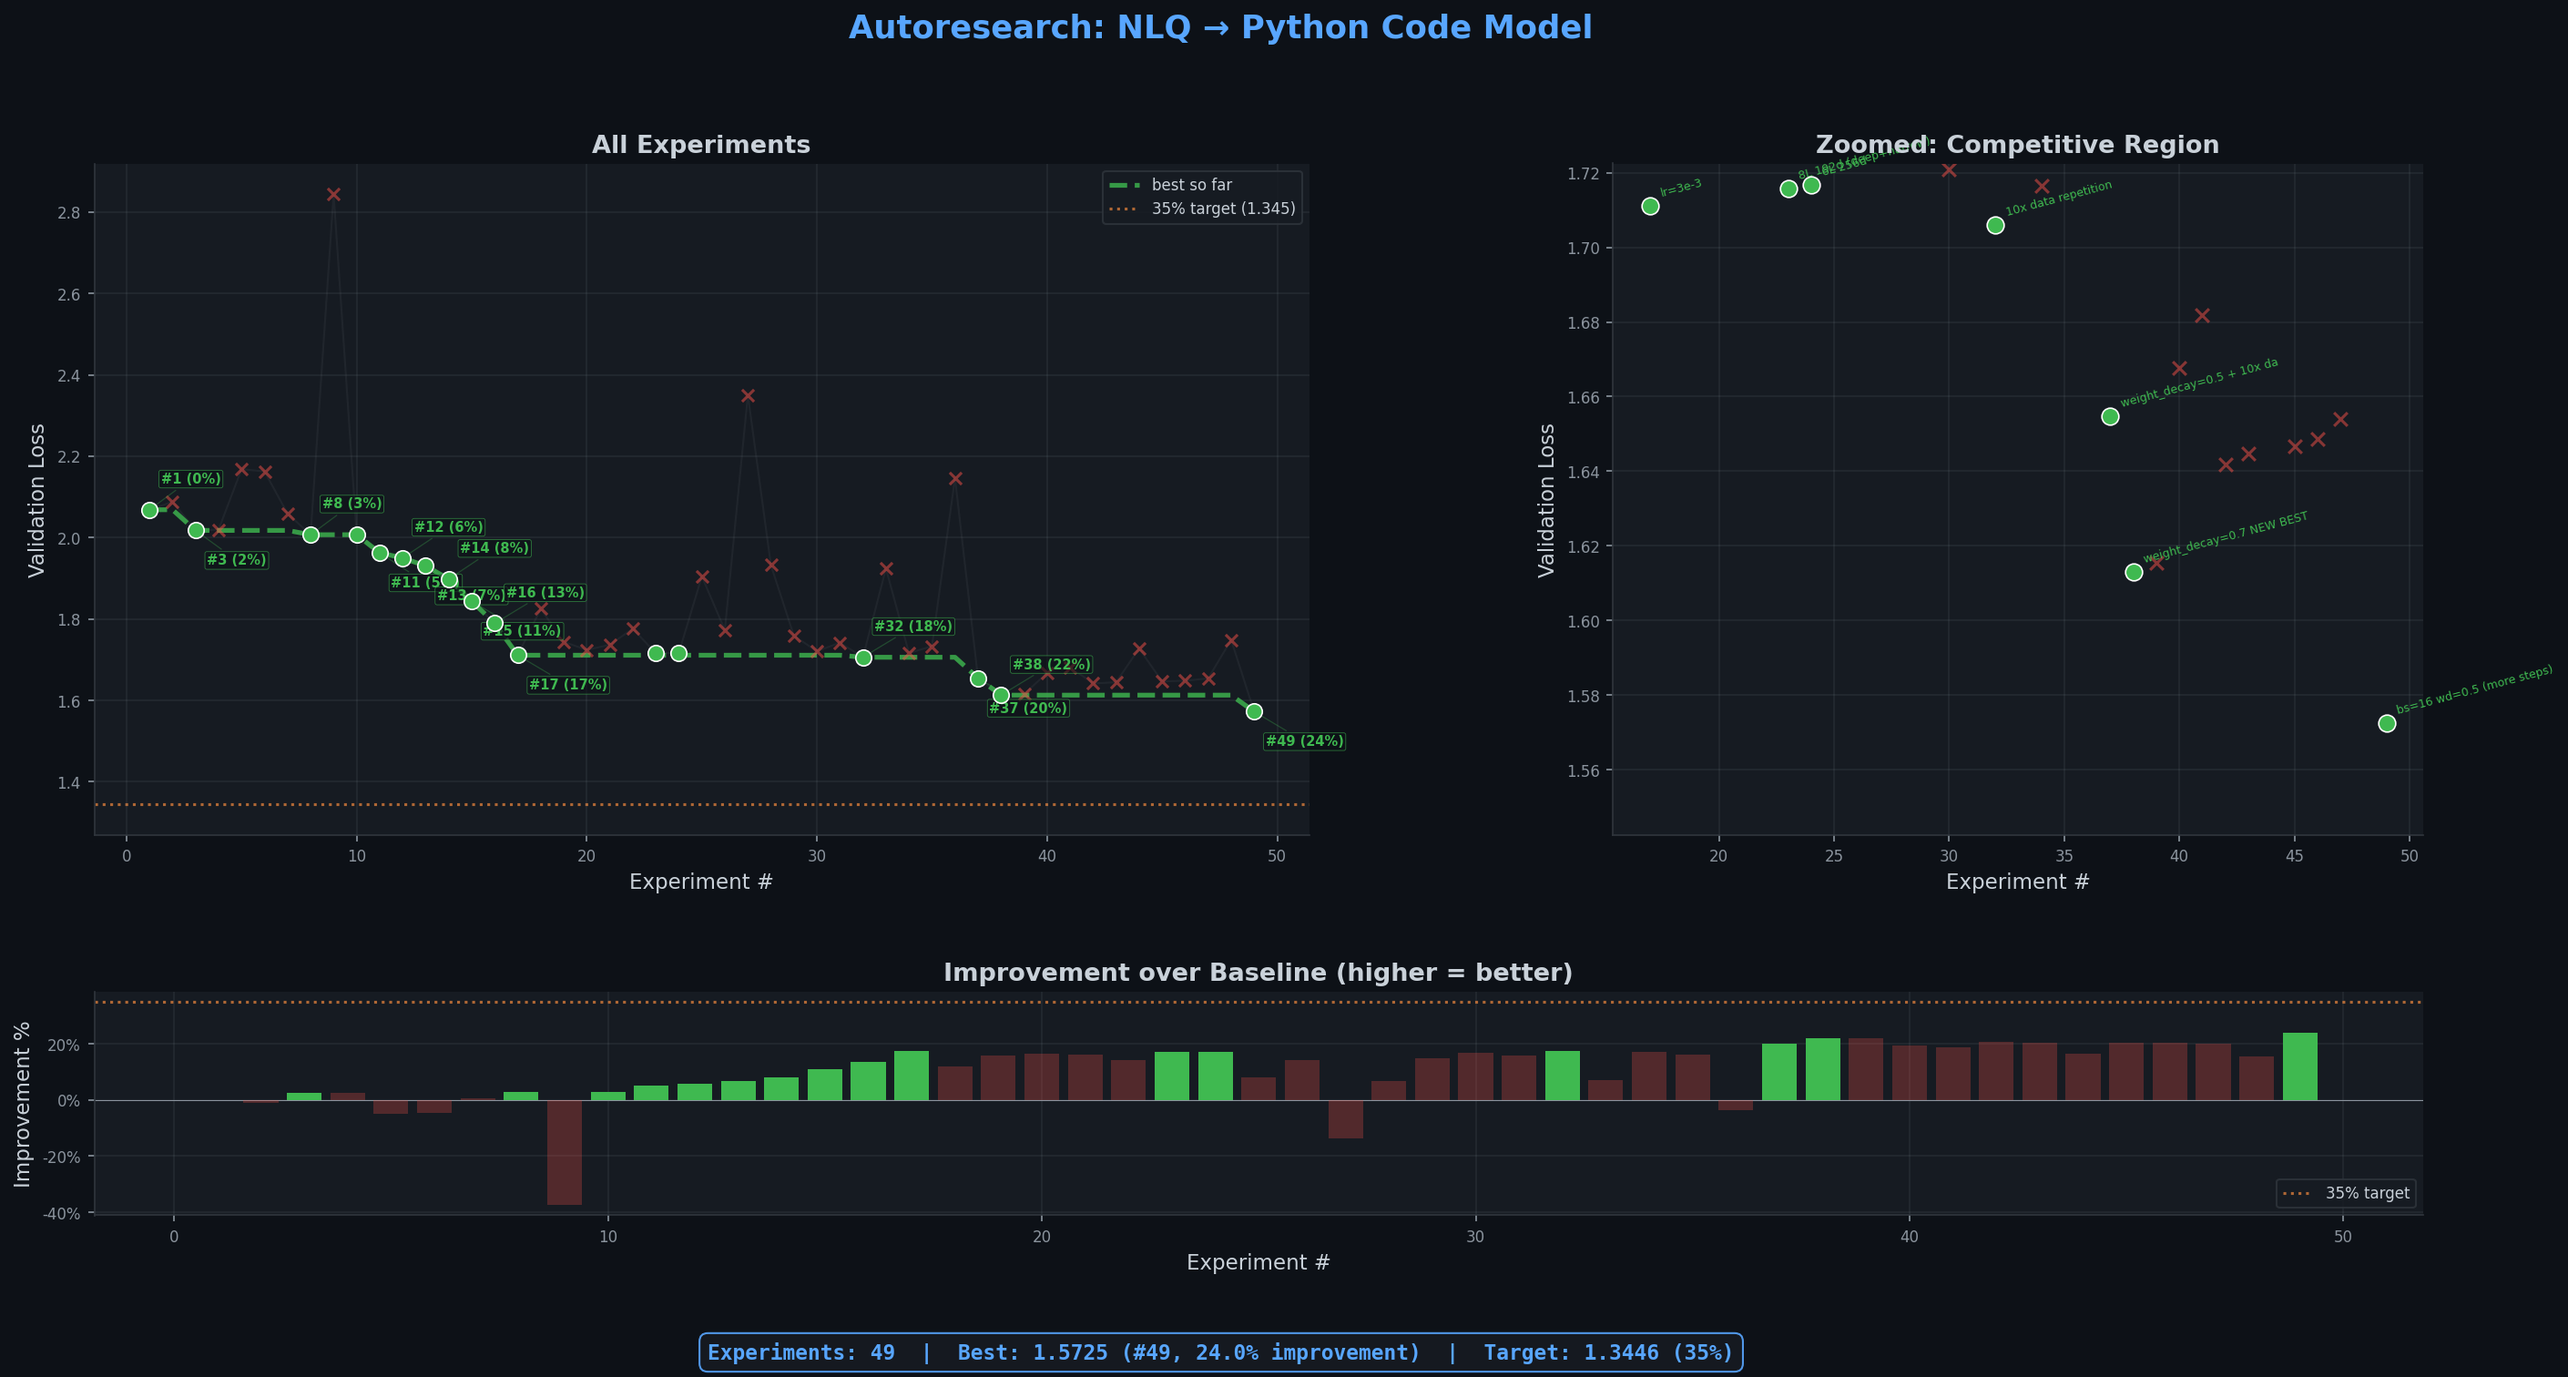
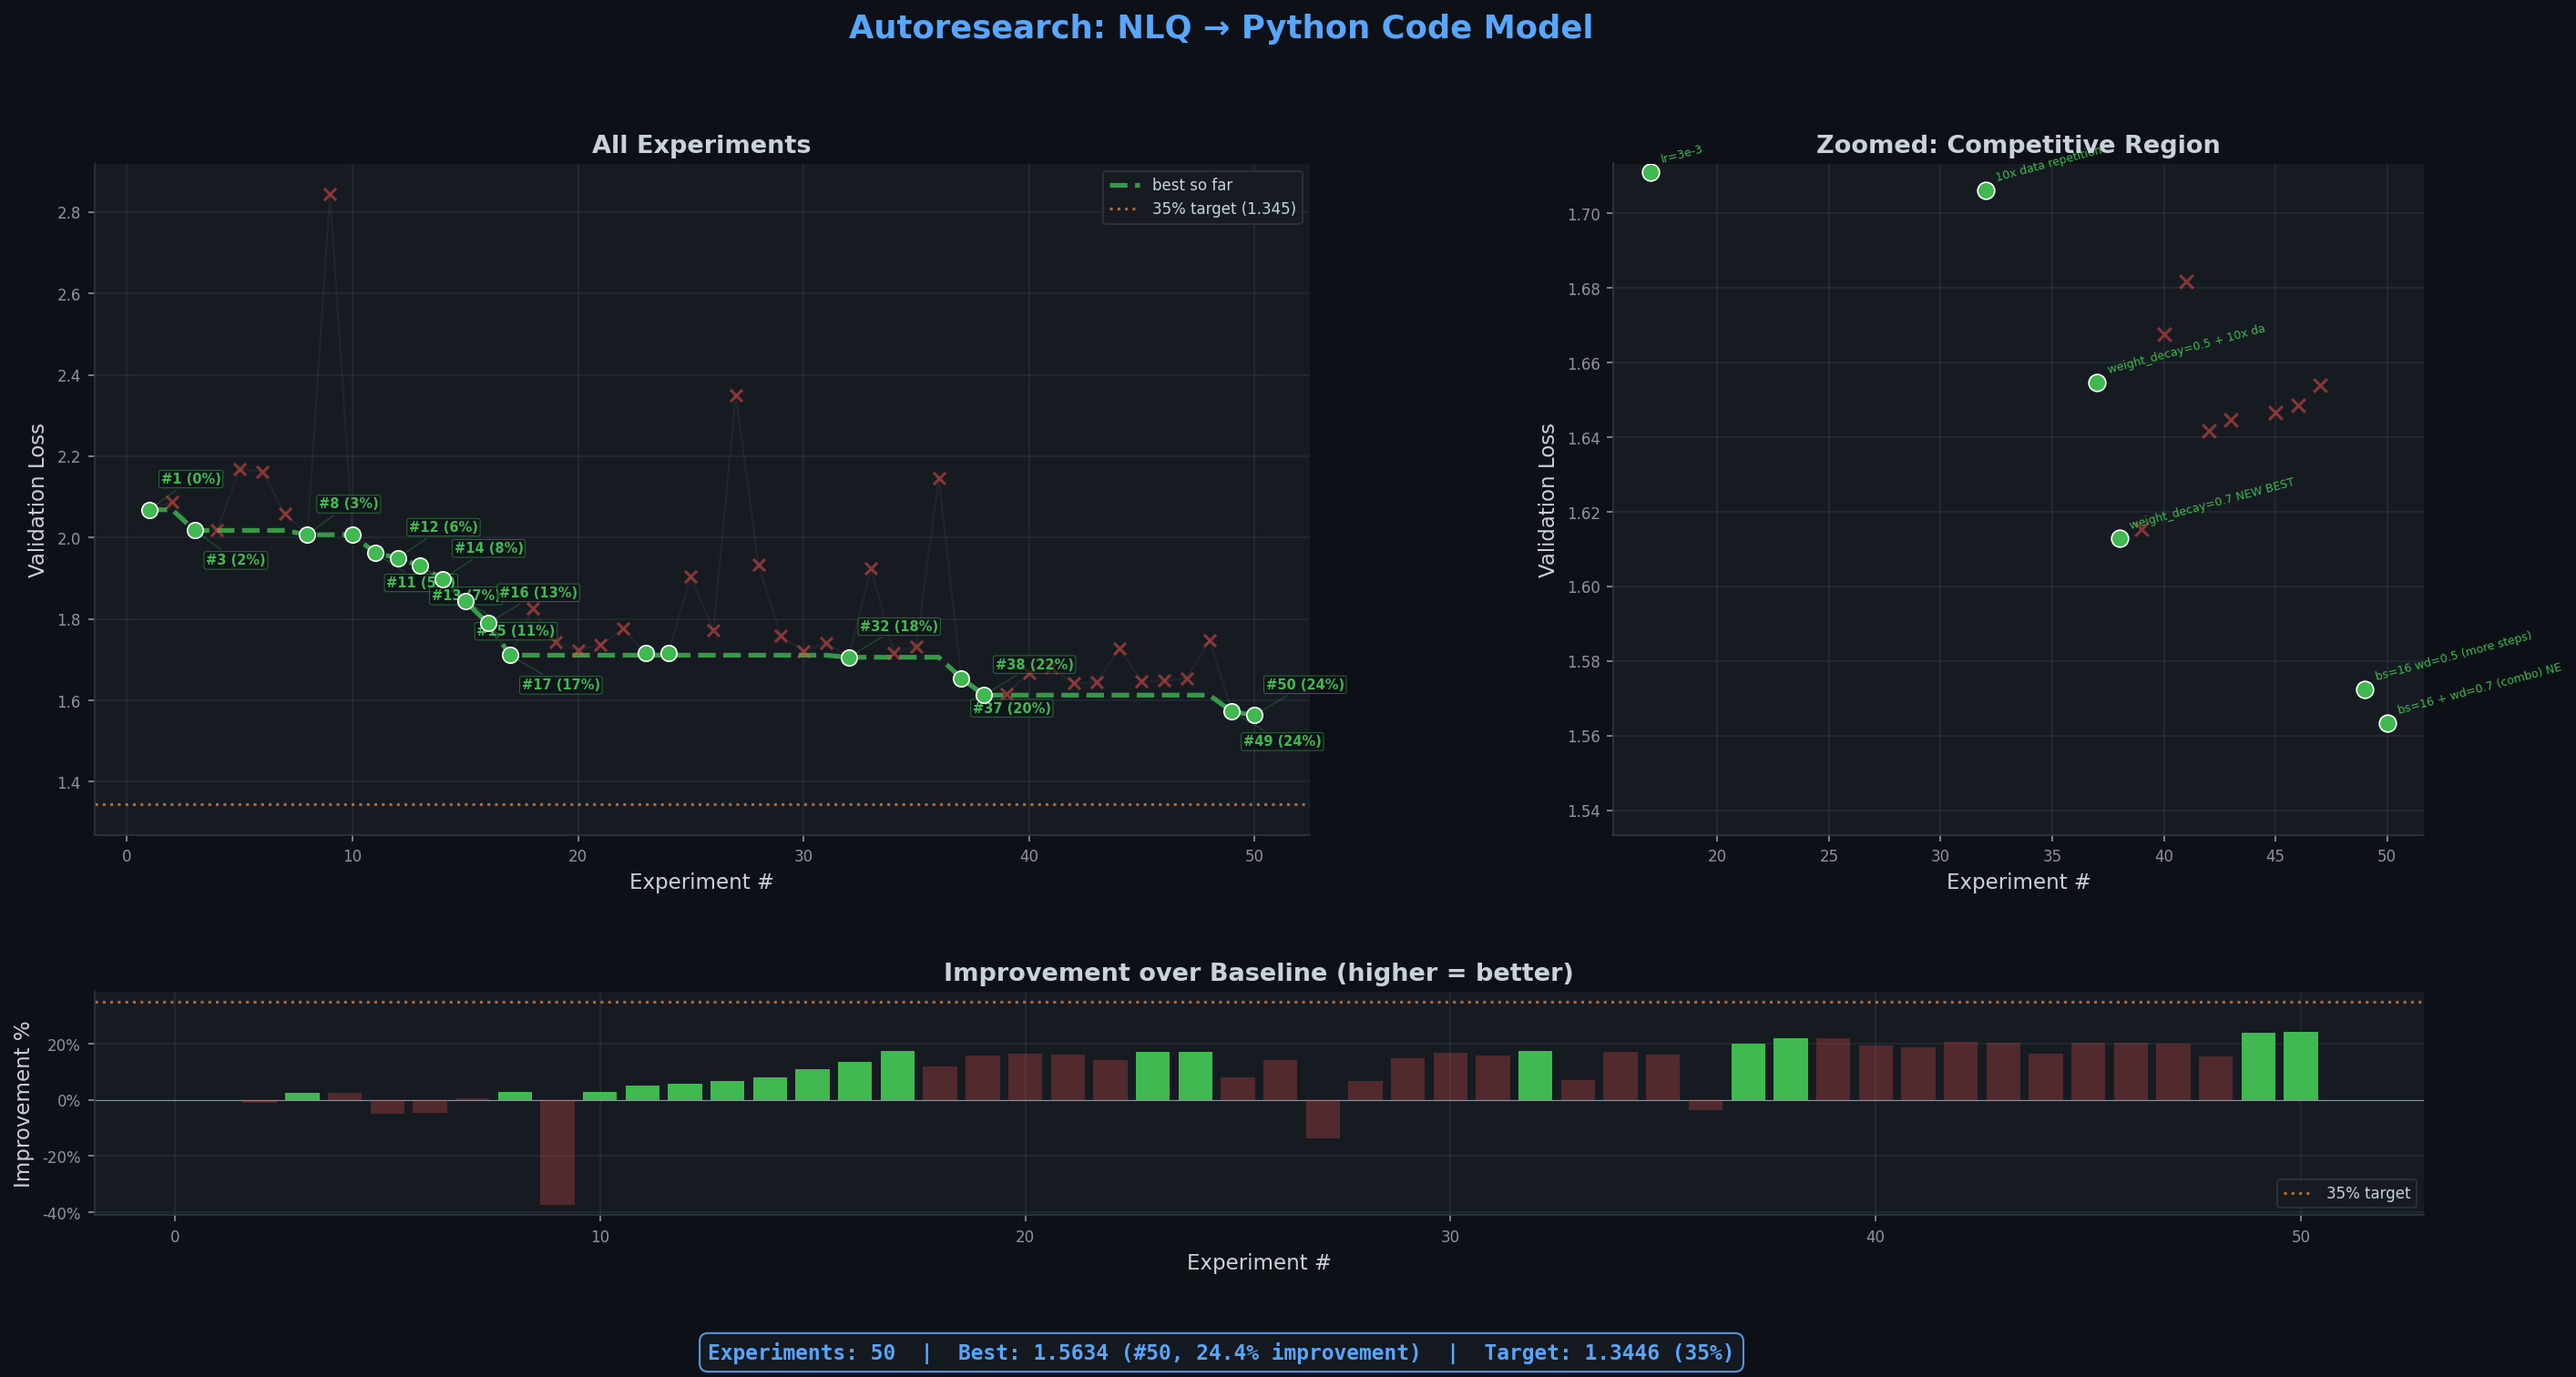
exp 050: bs=16 + wd=0.7 (combo) NEW BEST! (val=1.5634, 24.4%)

diff --git a/train_mlx.py b/train_mlx.py
@@ -48,7 +48,7 @@ DROPOUT = 0.1
 # Training
 BATCH_SIZE = 16
 LEARNING_RATE = 3e-3
-WEIGHT_DECAY = 0.5
+WEIGHT_DECAY = 0.7
 WARMUP_STEPS = 150
 TIME_BUDGET = 300
 GRAD_CLIP = 1.0
